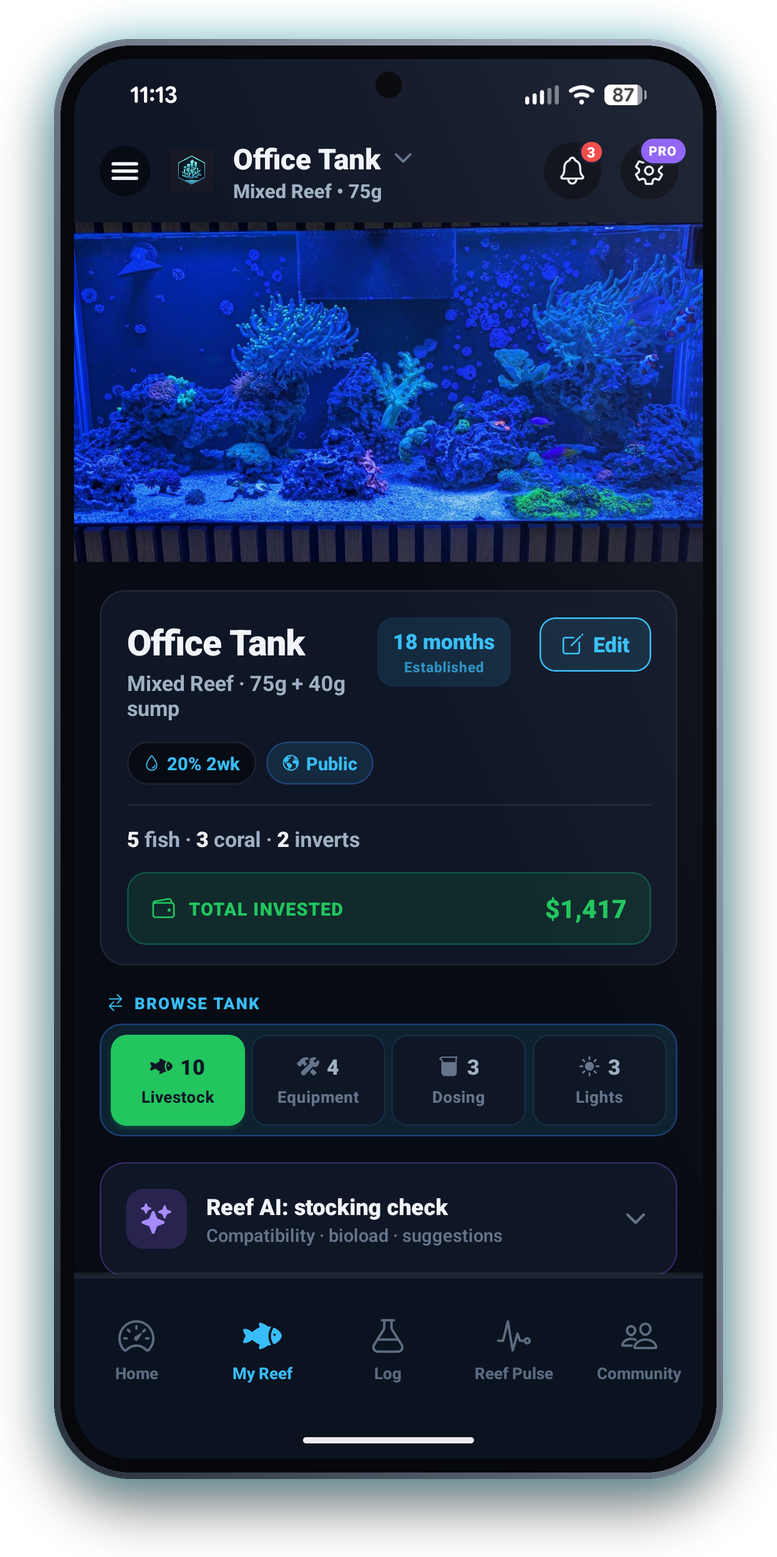
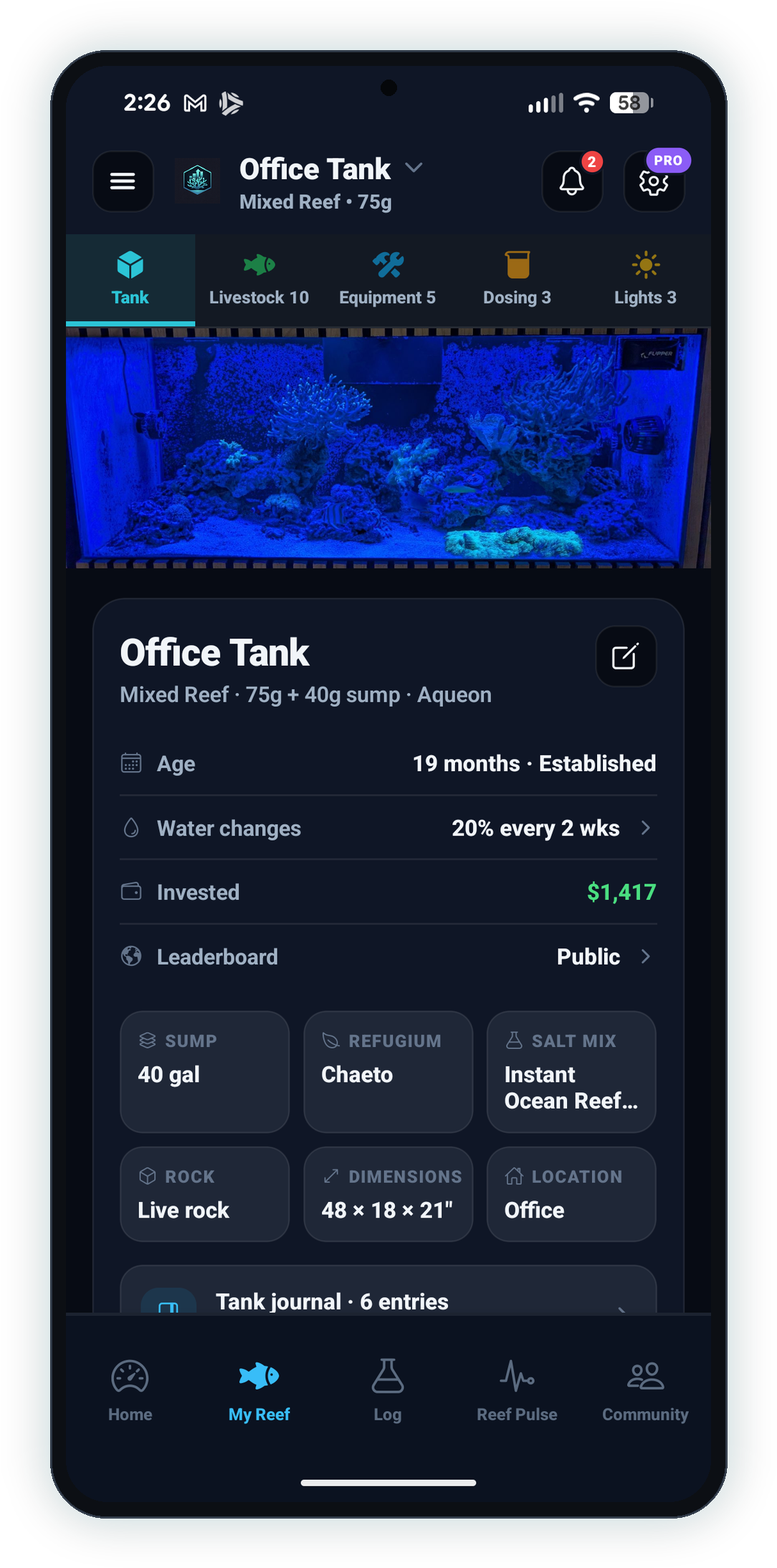
Update My Reef screenshots to the rebuilt Tank tab
Replaces the stale My Reef shots used on the homepage, blog index
and My Reef blog post with the current screen (tab bar with counts,
fact rows, dimensions and location cells). Declared image heights
updated to match the new aspect.

diff --git a/app/blog/my-reef-tank-tracking/page.tsx b/app/blog/my-reef-tank-tracking/page.tsx
@@ -112,7 +112,7 @@ export default function MyReefTrackingPost() {
 
         {/* Hero image */}
         <div style={{ maxWidth: "300px", margin: "0 auto 40px" }}>
-          <Image src="/screenshots/phone-my-reef-v2.png" alt="NextUpReef My Reef page showing livestock, equipment, dosing, and total tank investment" width={574} height={1146} style={{ width: "100%", height: "auto", display: "block" }} />
+          <Image src="/screenshots/phone-my-reef-v2.png" alt="NextUpReef My Reef page showing livestock, equipment, dosing, and total tank investment" width={574} height={1159} style={{ width: "100%", height: "auto", display: "block" }} />
         </div>
 
         <p style={{ fontSize: "16px", lineHeight: 1.75, color: "var(--text-muted)", marginBottom: "16px" }}>

diff --git a/app/page.tsx b/app/page.tsx
@@ -389,7 +389,7 @@ export default function HomePage() {
             </Link>
           </div>
           <div className="feature-spotlight-phone">
-            <Image src="/screenshots/site-v3/phone-my-reef.png" alt="NextUpReef My Reef page showing livestock, equipment, dosing, and total tank investment" width={777} height={1557} style={{ height: "auto" }} />
+            <Image src="/screenshots/site-v3/phone-my-reef.png" alt="NextUpReef My Reef page showing livestock, equipment, dosing, and total tank investment" width={777} height={1568} style={{ height: "auto" }} />
           </div>
         </div>
       </section>
